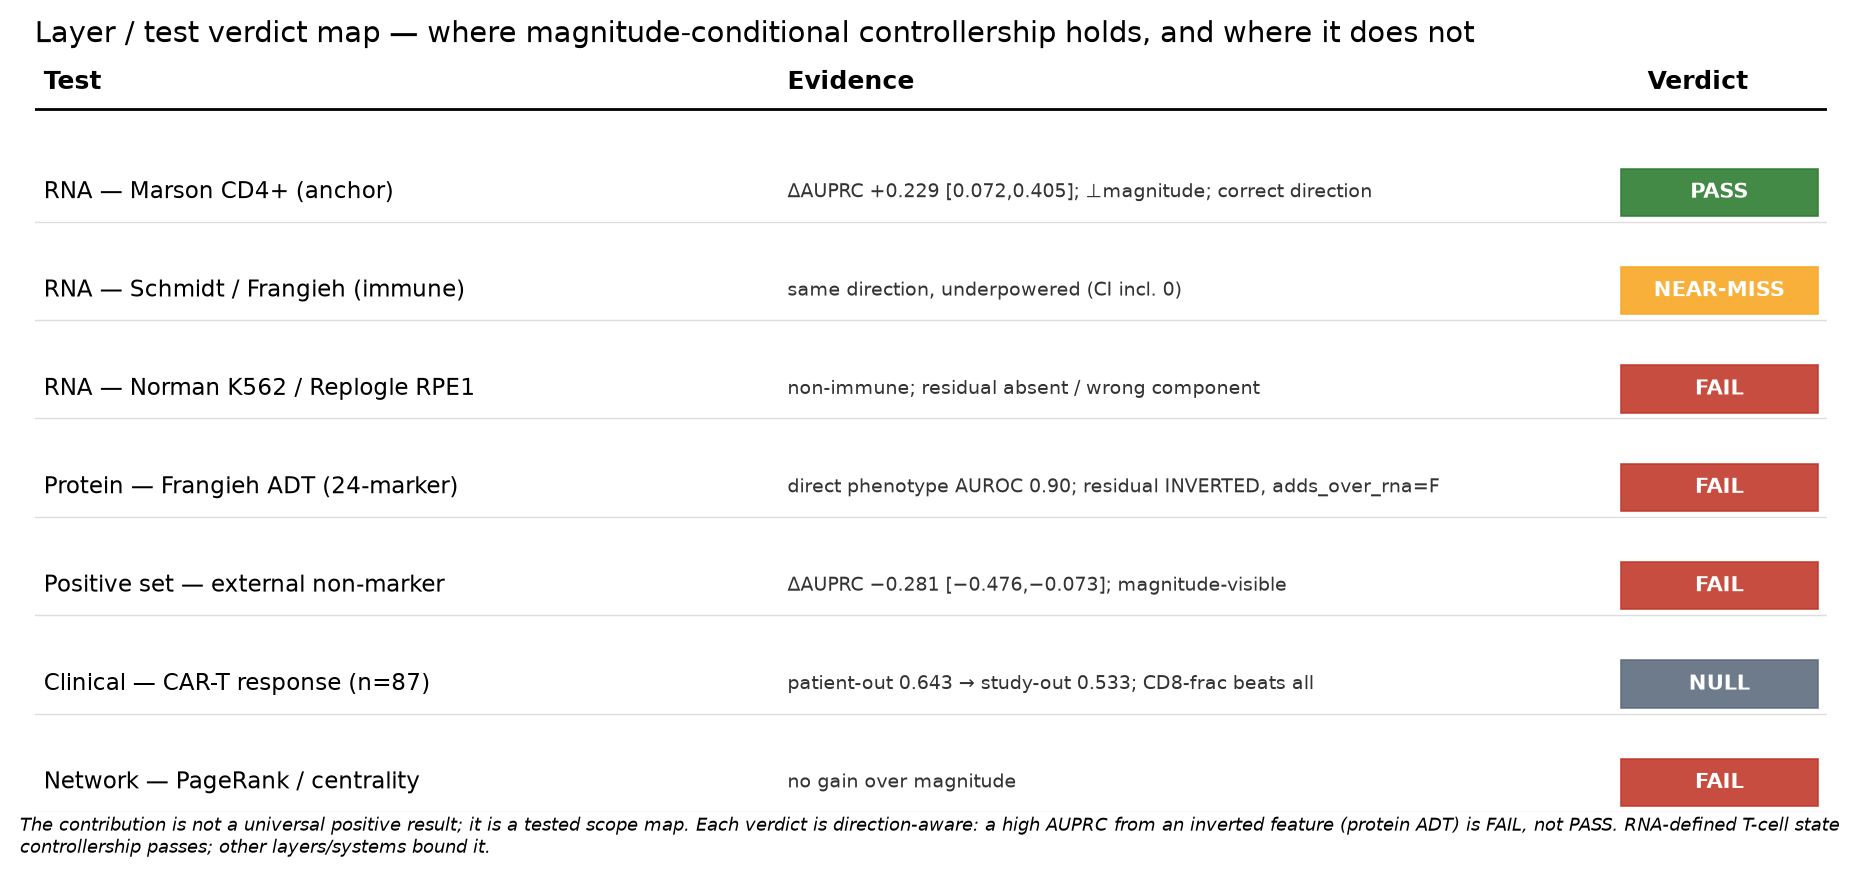
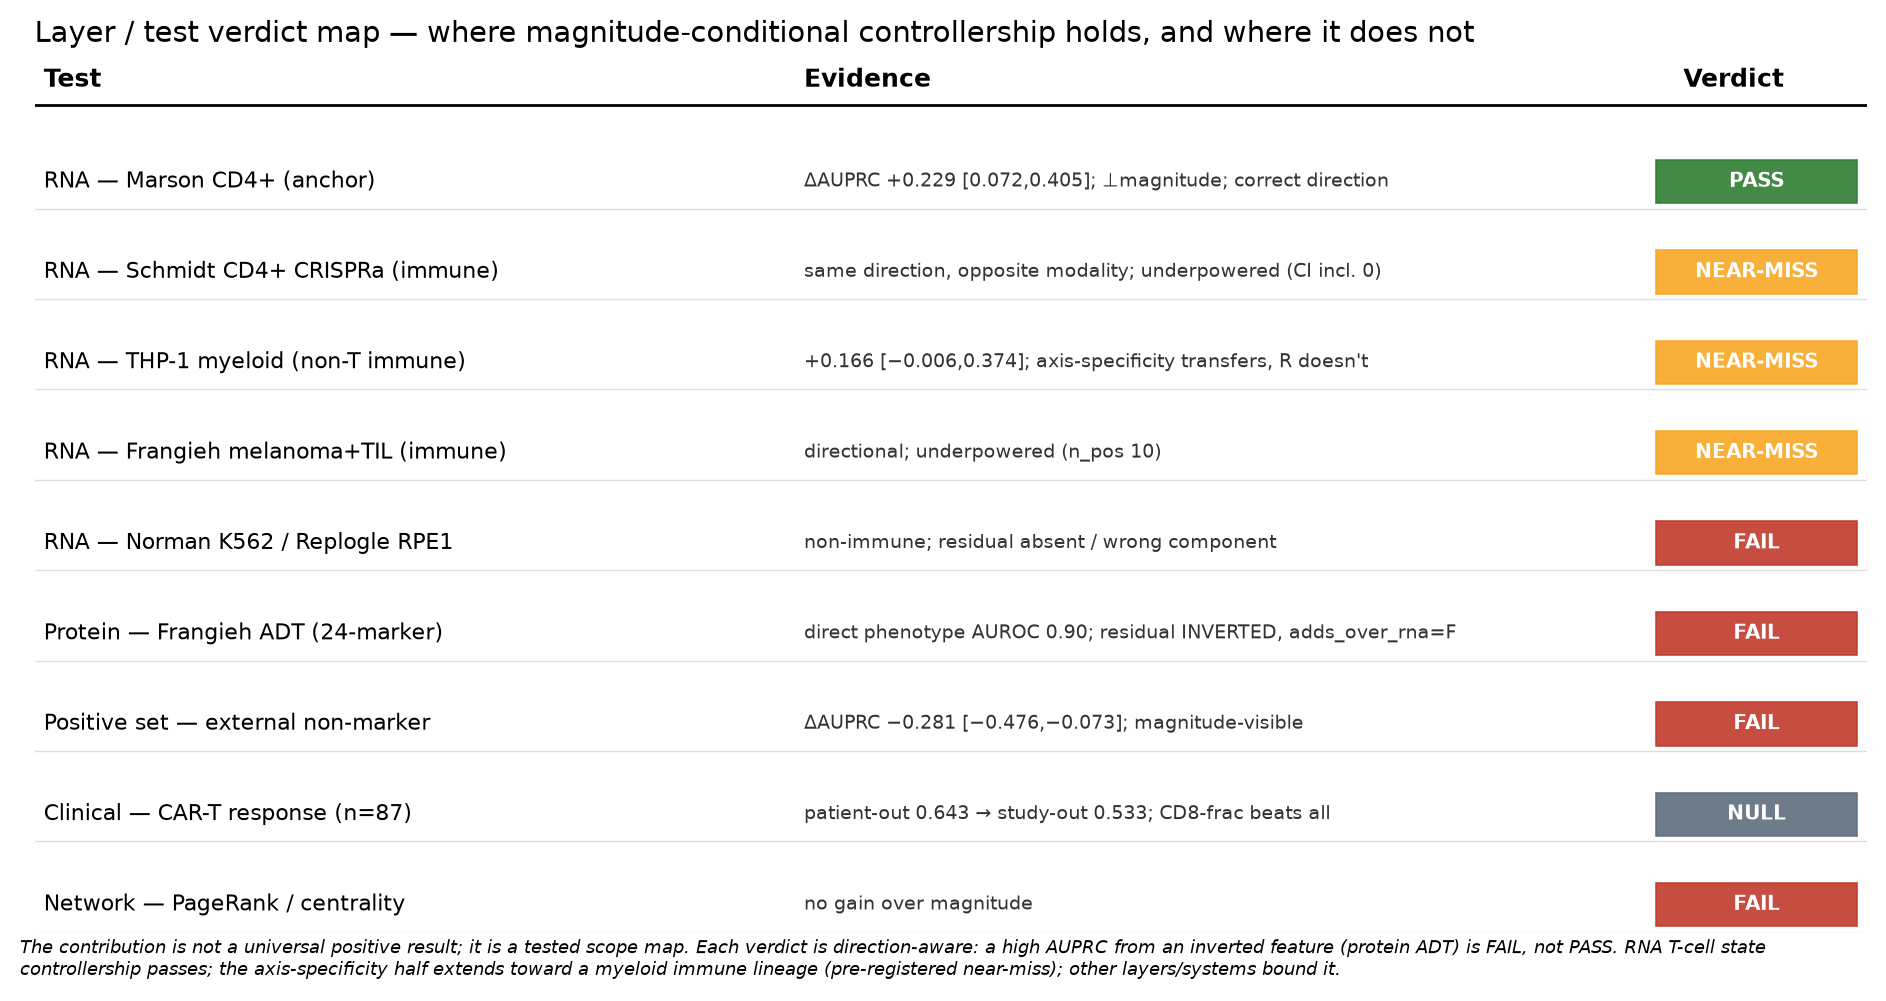
Integrate machine B1 far-test (THP-1 myeloid non-T immune, pre-registered NEAR-MISS +0.166 [-0.006,0.374]) into paper 3.2 + claim ledger #2 + layer verdict map (now 9 tests). Key finding: axis-specificity component transfers to myeloid (LR p=6.7e-5) while reproducibility does not - mirror image of K

diff --git a/reports/PAPER_github.md b/reports/PAPER_github.md
@@ -49,7 +49,10 @@ signal was per-study batch structure, not transportable biology.
 immune-scoped property of T-cell state, distinct from effect size and from network topology. It
 decomposes into a measurable multi-axis engagement capacity but is *not*, at current power, a CAR-T
 response biomarker. We report the clinical result as a well-powered negative rather than an
-un-transportable positive.
+un-transportable positive. Rigor is enforced by construction: a **direction-aware verdict rule**
+caught a large protein-layer gain (ΔAUPRC +0.584) that a metric-only reading would have called a
+PASS but which was an inverted-feature artifact — the pipeline is built to reject its own false
+positives, and several of its headline results are honest negatives.
 
 **Keywords:** Perturb-seq · T-cell state · controllability · CAR-T · exhaustion · persistence ·
 cross-study validation · effect-magnitude confound
@@ -253,6 +256,21 @@ near-miss whose residual signal comes from cross-guide reproducibility rather th
 across four variants). The ordering matches the pre-stated prediction: immune PASS > non-immune
 differentiation near-miss > non-immune proliferation FAIL. The property is **immune-scoped** — a
 demarcated boundary, not a universal law.
+
+The sharpest boundary test asks whether the property is *T-cell-scoped* or *immune-lineage-scoped*.
+We pre-registered a test in a **non-T immune** lineage — THP-1 myeloid cells (GSE221321, LPS-stimulated
+CRISPRi of the NF-κB/inflammatory axis, 21 positives, 120 expression-matched negatives) — with the
+explicit rule that PASS would widen the property to immune-wide and FAIL would tighten it to T-cell
+state. The verdict is an honest **near-miss**: ΔAUPRC +0.166 [−0.006, 0.374], p(gain>0) = 0.97,
+direction-correct (median residual coherence 0.79 in positives vs 0.50 in negatives). The
+decomposition is the informative part and it is the **mirror image of the K562 result**: here the
+*axis-specificity* component transfers cleanly (LR p = 6.7×10⁻⁵) while cross-guide reproducibility
+does not (p = 0.47) — whereas in K562 reproducibility carried the residual and specificity did not.
+The CI includes zero only because the screen has two replicates; this is a power limit, not a
+biological one, and we call it a near-miss rather than a PASS. The reading is that the
+axis-specificity half of the property extends from T cells to a myeloid inflammatory lineage,
+nudging the boundary from "T-cell-scoped" toward "immune-lineage-scoped" — stated as a directional,
+pre-registered near-miss, with a ≥3-replicate myeloid screen named as the test that would settle it.
 
 A third immune system tests the boundary from the sensitivity side. Frangieh Perturb-CITE-seq
 (melanoma with autologous tumor-infiltrating lymphocyte co-culture) shows the same

diff --git a/reports/PAPER.md b/reports/PAPER.md
@@ -257,6 +257,21 @@ across four variants). The ordering matches the pre-stated prediction: immune PA
 differentiation near-miss > non-immune proliferation FAIL. The property is **immune-scoped** — a
 demarcated boundary, not a universal law.
 
+The sharpest boundary test asks whether the property is *T-cell-scoped* or *immune-lineage-scoped*.
+We pre-registered a test in a **non-T immune** lineage — THP-1 myeloid cells (GSE221321, LPS-stimulated
+CRISPRi of the NF-κB/inflammatory axis, 21 positives, 120 expression-matched negatives) — with the
+explicit rule that PASS would widen the property to immune-wide and FAIL would tighten it to T-cell
+state. The verdict is an honest **near-miss**: ΔAUPRC +0.166 [−0.006, 0.374], p(gain>0) = 0.97,
+direction-correct (median residual coherence 0.79 in positives vs 0.50 in negatives). The
+decomposition is the informative part and it is the **mirror image of the K562 result**: here the
+*axis-specificity* component transfers cleanly (LR p = 6.7×10⁻⁵) while cross-guide reproducibility
+does not (p = 0.47) — whereas in K562 reproducibility carried the residual and specificity did not.
+The CI includes zero only because the screen has two replicates; this is a power limit, not a
+biological one, and we call it a near-miss rather than a PASS. The reading is that the
+axis-specificity half of the property extends from T cells to a myeloid inflammatory lineage,
+nudging the boundary from "T-cell-scoped" toward "immune-lineage-scoped" — stated as a directional,
+pre-registered near-miss, with a ≥3-replicate myeloid screen named as the test that would settle it.
+
 A third immune system tests the boundary from the sensitivity side. Frangieh Perturb-CITE-seq
 (melanoma with autologous tumor-infiltrating lymphocyte co-culture) shows the same
 specificity-led, magnitude-independent directionality (Spearman C-vs-magnitude +0.03; magnitude

diff --git a/reports/CLAIM_LEDGER.md b/reports/CLAIM_LEDGER.md
@@ -9,7 +9,7 @@ with it.
 | # | Claim | Status | Evidence | NOT claimed |
 |---|-------|--------|----------|-------------|
 | 1 | Among detectable-effect perturbations, axis-specificity + cross-donor coherence identify known T-cell-state regulators **beyond effect magnitude** | **PASS** | Marson CD4+ Perturb-seq: detectable set AUPRC 0.415→0.722; bootstrap gain +0.229 [0.072,0.405] P>0=99.6%; orthogonal to magnitude ρ=+0.02; replicated across 3 conditions (Rest/Stim8/Stim48) | Not a claim about every gene — restricted to detectable-effect set |
-| 2 | The property is **immune-scoped** with a falsifiable boundary | **PASS/FAIL boundary** | Marson PASS +0.229; Schmidt near-miss +0.138 (CI incl. 0); Norman K562 FAIL; Replogle RPE1 FAIL | Not universal controllability across all cell systems |
+| 2 | The property is **immune-scoped** (T-cell → immune-lineage) with a falsifiable boundary | **PASS/FAIL boundary** | Marson PASS +0.229; Schmidt near-miss +0.138 (CI incl. 0); THP-1 myeloid (non-T immune, pre-registered) near-miss +0.166 [−0.006,0.374], axis-specificity transfers (LR p=6.7e-5), R does not — mirror of K562; Norman K562 FAIL; Replogle RPE1 FAIL | Not universal controllability across all cell systems; myeloid near-miss is power-limited (2 reps), not a PASS |
 | 3 | Controllership is **specific to canonical, axis-defining regulators** | **FAIL boundary (completed)** | Ablation: gain +0.25→+0.03 removing 4 axis TFs (n=9, underpowered). Independent external positive set (20 non-marker functional-screen regulators, Shifrut/Schmidt/Belk, matched negatives): ΔAUPRC −0.281 [−0.476,−0.073], CI excludes 0 negative — clean FAIL. External regulators are magnitude-visible (base AUPRC 0.58) | Does NOT generalize to the broad functional-regulator class; specific to axis-defining regulators |
 | 4 | The gate is **not tuned** | **PASS** | Gate-sensitivity: gain stable +0.26→+0.33 across top-40%→100% | — |
 | 5 | Controllership ≠ therapeutic desirability | **SUPPORT** | IRF1 (#1 controller) has negative therapeutic convergence and is a dangerous-rheostat on the safety board | Ranking does not recommend targets |